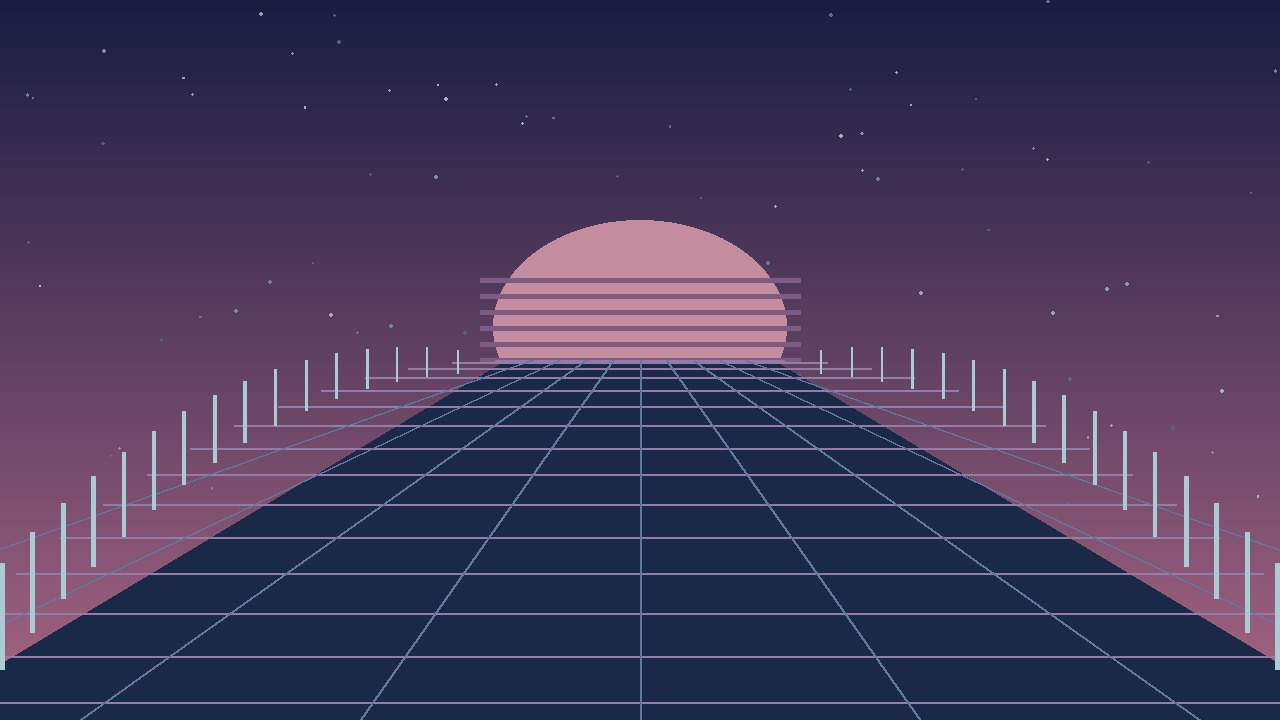
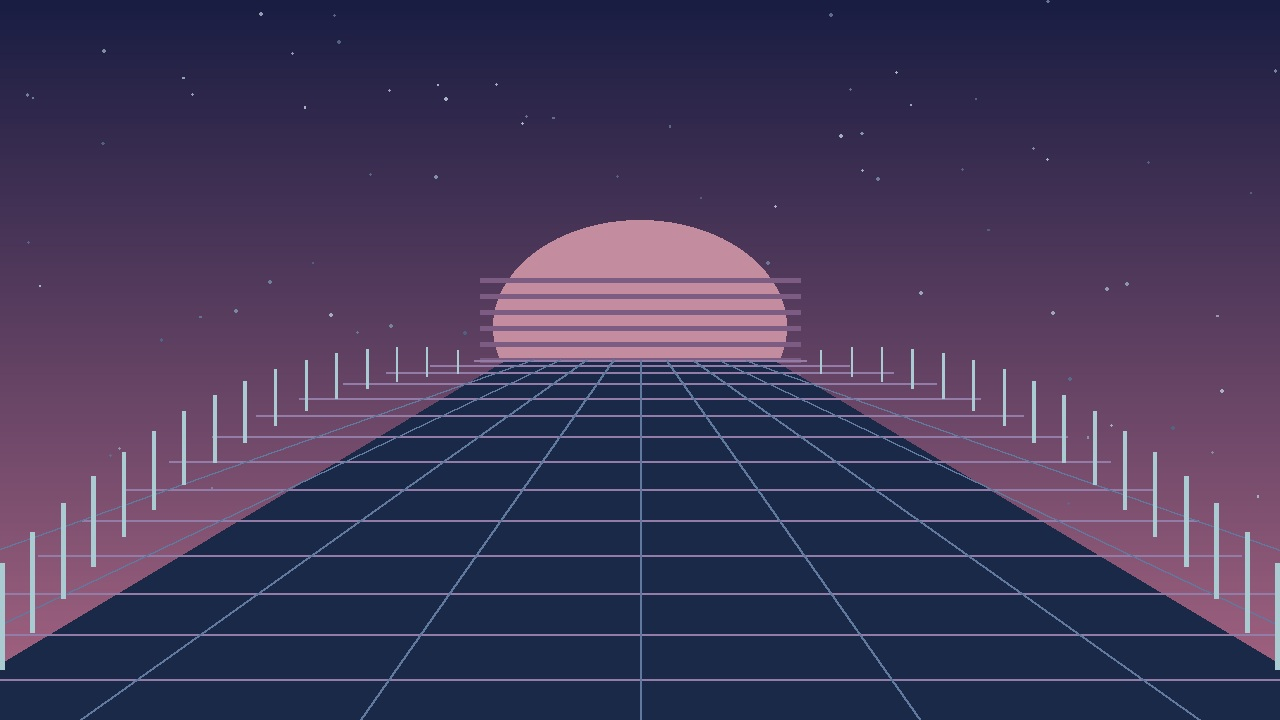
Preserve procedural video playback and validate complete periodic collections

Changed region(s): [[0.0938, 0.4889, 0.9062, 0.7028], [0.0312, 0.7944, 0.9688, 0.8556]]

diff --git a/tools/render_motion.py b/tools/render_motion.py
@@ -50,7 +50,7 @@ class Canvas:
 def frame(scene,u,width=3840,height=2160):
     i=scene-100
     if not 0<=i<15:raise ValueError('Scene id must be 100..114')
-    u=u%1;p=TAU*u;c=Canvas(i,width,height);rng=random.Random(912+i)
+    p=TAU*(u%1);c=Canvas(i,width,height);rng=random.Random(912+i)
     def stars(n=80):
         for j in range(n):
             x,y=rng.random()*960,rng.random()*380;r=.5+(j%3)*.3
@@ -119,7 +119,7 @@ def frame(scene,u,width=3840,height=2160):
         for j in range(10):c.line([(360,210+j*12),(600,210+j*12)],'#7c5c83',4)
         c.poly([(380,270),(580,270),(1030,540),(-70,540)],'#1b2948')
         for j in range(15):
-            v=(j+u)/15;y=270+v*v*285;c.line([(380-v*490,y),(580+v*490,y)],'#947ca9',1.2)
+            v=(j/15+u)%1;y=270+v*v*285;c.line([(380-v*490,y),(580+v*490,y)],'#947ca9',1.2)
         for x in range(-4,5):c.line([(480+x*20,270),(480+x*210,540)],'#61799f',1.4)
         for j in range(18):
             v=(j/18+u)%1;y=280+v*v*300
@@ -147,7 +147,7 @@ def frame(scene,u,width=3840,height=2160):
         c.ellipse(750,100,40,40,'#ead0b9')
         for layer in range(4):
             for j in range(9):
-                x=((j*150+u*1050*(1+layer%2))%1350)-190;y=300+layer*55+math.sin(p+j)*6
+                x=((j*150+u*1350*(1+layer%2))%1350)-190;y=300+layer*55+math.sin(p+j)*6
                 c.ellipse(x,y,125,35,['#b4a5bb','#c6b5c4','#d3c4cf','#ded3d7'][layer])
         for j in range(3):
             x=220+j*260+math.sin(p+j)*35;y=170+j*35+math.cos(p+j)*15;col=['#c1909f','#8ca8b5','#d2b396'][j]
@@ -187,8 +187,11 @@ def encode(scene,output,width,height,fps,seconds):
     result=subprocess.run([ffmpeg,'-v','error','-threads','2','-i',str(target),'-f','framemd5','-'],capture_output=True,check=True,text=True)
     hashes=[line.split(',')[-1].strip() for line in result.stdout.splitlines() if line and not line.startswith('#')]
     assert len(hashes)==fps*seconds and all(a!=b for a,b in zip(hashes,hashes[1:])),f'Frozen/missing frames: {scene}'
-    assert frame(scene,0,320,180).tobytes()==frame(scene,1,320,180).tobytes(),'Loop endpoint is not periodic'
-    report={'id':scene,'width':width,'height':height,'fps':fps,'seconds':seconds,'frames':len(hashes),'uniqueAdjacentFrames':True,'periodic':True,'sha256':hashlib.sha256(target.read_bytes()).hexdigest()}
+    # Do not wrap u before this check: that would hide discontinuous translations.
+    # A subpixel rasterization tolerance covers floating-point endpoints of diagonal lines.
+    endpoint_delta=float(np.abs(np.asarray(frame(scene,0,960,540),dtype=np.int16)-np.asarray(frame(scene,1,960,540),dtype=np.int16)).mean())
+    assert endpoint_delta<.025,f'Loop endpoint is not periodic: {scene}, delta {endpoint_delta}'
+    report={'id':scene,'width':width,'height':height,'fps':fps,'seconds':seconds,'frames':len(hashes),'uniqueAdjacentFrames':True,'periodic':True,'endpointMeanDifference':endpoint_delta,'sha256':hashlib.sha256(target.read_bytes()).hexdigest()}
     (output/f'{scene}.json').write_text(json.dumps(report,indent=2),encoding='utf-8');print(json.dumps(report),flush=True)
 
 if __name__=='__main__':

diff --git a/tools/check_expansion.py b/tools/check_expansion.py
@@ -5,6 +5,12 @@ from pathlib import Path
 from PIL import Image
 root=Path(__file__).resolve().parents[1]/'assets'
 catalog=json.loads((root/'expansion.json').read_text(encoding='utf-8'))
+original=json.loads((root/'presets.json').read_text(encoding='utf-8'))
+assert len(original)==18 and {scene['id'] for scene in original}==set(range(18))
+for scene in original:
+    for suffix in ('.mp4','.jpg','.cover.jpg','.preview.mp4'):
+        assert (root/f"{scene['id']}{suffix}").stat().st_size>1000
+    assert (root/'spatial'/f"{scene['id']}.png").is_file()
 assert [v['id'] for v in catalog['spatial']]==list(range(18,28))
 assert [v['id'] for v in catalog['live']]==list(range(100,115))
 for scene in catalog['spatial']:
@@ -13,7 +19,7 @@ for scene in catalog['live']:
     stem=root/'motion'/str(scene['id'])
     report=json.loads(stem.with_suffix('.json').read_text())
     assert (report['width'],report['height'],report['fps'],report['seconds'],report['frames'])==(3840,2160,60,12,720),report
-    assert report['uniqueAdjacentFrames'] and report['periodic']
+    assert report['uniqueAdjacentFrames'] and report['periodic'] and report['endpointMeanDifference']<.025
     assert hashlib.sha256(stem.with_suffix('.mp4').read_bytes()).hexdigest()==report['sha256']
     for suffix,size in [('.jpg',(1280,720)),('.cover.jpg',(3840,2160))]:
         with Image.open(stem.parent/(stem.name+suffix)) as cover:assert cover.size==size

diff --git a/MainWindow.Studio.cs b/MainWindow.Studio.cs
@@ -55,6 +55,8 @@ public partial class MainWindow
         if(preferences.Layers.TryGetValue(PlaybackRules.Key(scene),out var custom)){custom.Video=custom.MotionId is not null?scene.Path:null;return custom;}
         if(scene.Thumbnail is null)return null;
         var preset=scene.PresetId is int id?definitions.GetValueOrDefault(id):null;
+        // Procedural videos already contain motion; inherited layer settings must not replace them with a still.
+        if(preset is null && scene.PresetId is not null && !scene.IsSpatial)return null;
         if(scene.IsSpatial && scene.PresetId is >=0 and <SpatialScene.SceneCount)
         {
             string original=Path.Combine(AppContext.BaseDirectory,"assets",$"scene-{scene.PresetId}.png");
